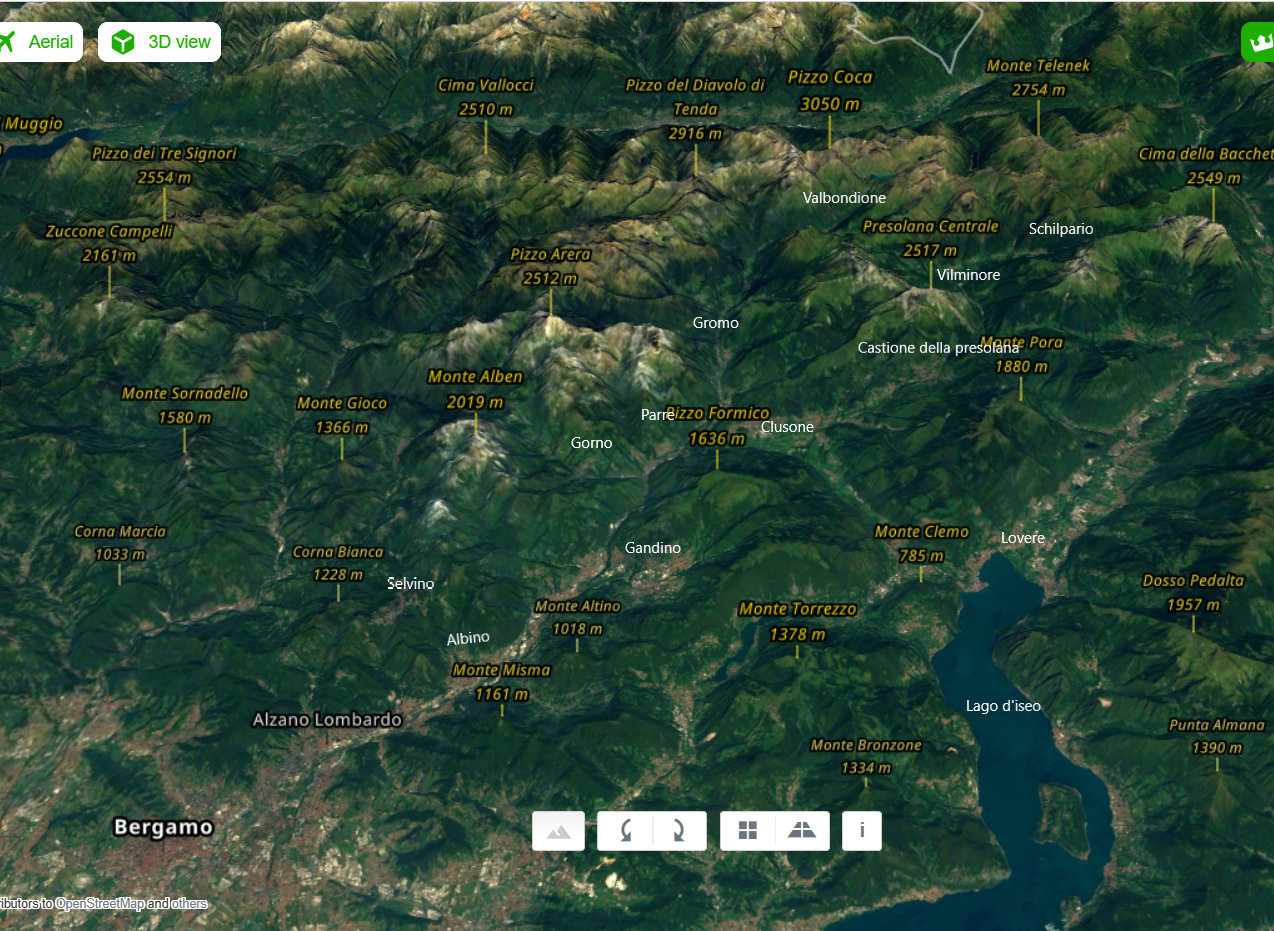
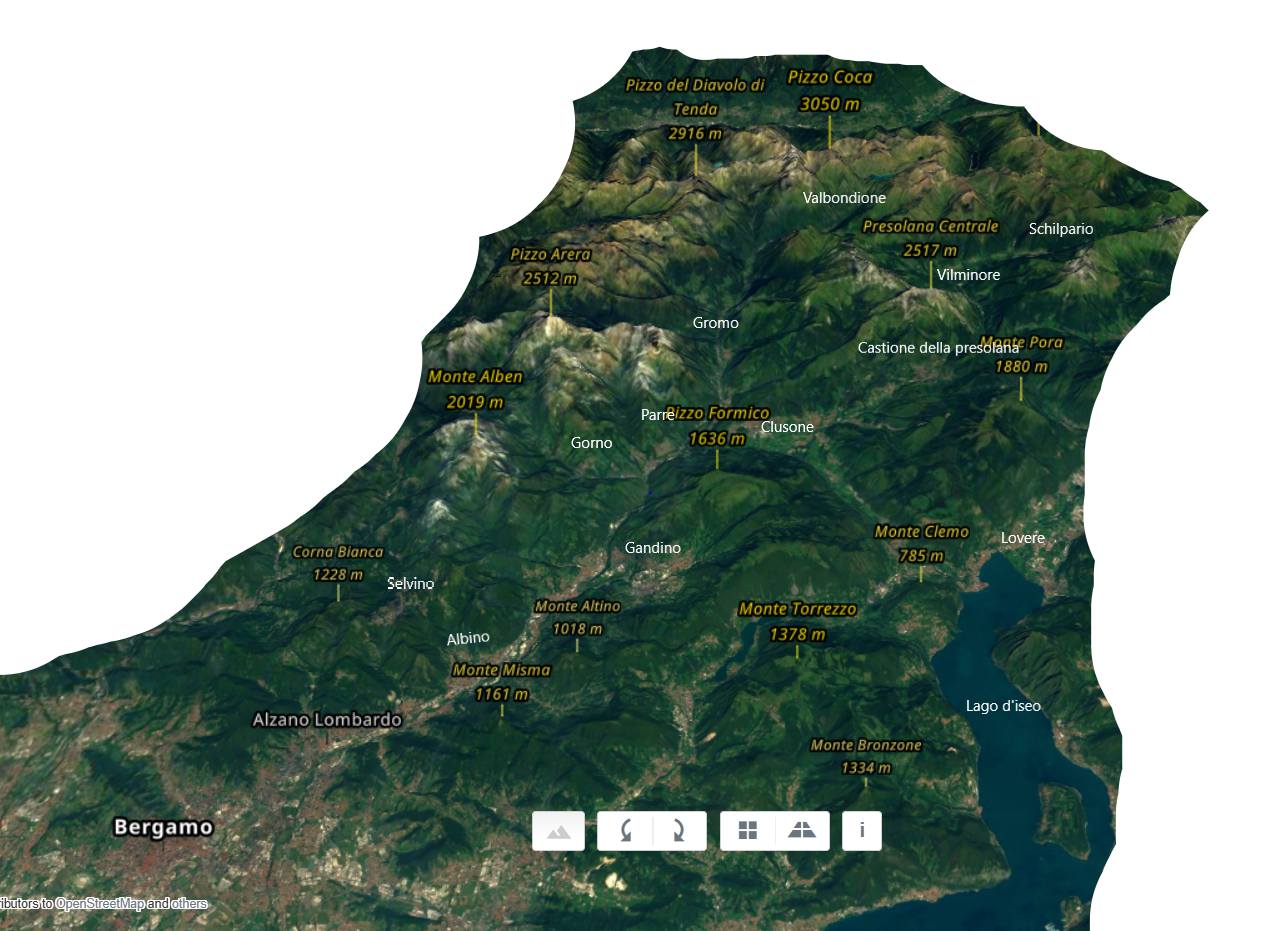
4

diff --git a/index.html b/index.html
@@ -409,9 +409,9 @@ footer{background:var(--cream);border-top:1px solid var(--tan);padding:1.5rem 3r
     </div>
   </div>
   <div class="cards">
-    <a class="card r" href="escursioni.html#in-vetta"><div class="card-img"><svg width="48" height="48" viewBox="0 0 48 48" fill="none"><path d="M8 38 L18 22 L28 30 L36 14 L44 20" stroke="#C2B49A" stroke-width="1.2" fill="none"/><circle cx="36" cy="12" r="3" stroke="#C2B49A" stroke-width="1" fill="none"/></svg></div><div class="card-body"><p class="card-label">In Vetta</p><p class="card-sub">Cime, creste, dislivello</p></div></a>
-    <a class="card r" href="escursioni.html#naturalistiche" style="transition-delay:.08s"><div class="card-img"><svg width="48" height="48" viewBox="0 0 48 48" fill="none"><path d="M24 8 Q28 16 24 24 Q20 16 24 8Z" fill="#C2B49A" opacity=".5"/><path d="M14 14 Q20 18 24 24 Q18 20 14 14Z" fill="#C2B49A" opacity=".4"/><path d="M34 14 Q28 18 24 24 Q30 20 34 14Z" fill="#C2B49A" opacity=".4"/><circle cx="24" cy="26" r="3" fill="#9C6040" opacity=".5"/></svg></div><div class="card-body"><p class="card-label">Naturalistiche</p><p class="card-sub">Botanica, geologia, fauna, fossili</p></div></a>
-    <a class="card r" href="escursioni.html#micologiche" style="transition-delay:.16s"><div class="card-img"><svg width="48" height="48" viewBox="0 0 48 48" fill="none"><path d="M10 22 Q10 10 24 10 Q38 10 38 22 Q38 24.5 35.5 24.5 L12.5 24.5 Q10 24.5 10 22Z" stroke="#C2B49A" stroke-width="1.2" fill="none"/><path d="M20 24.5 L20.5 36 Q20.5 39 24 39 Q27.5 39 27.5 36 L28 24.5" stroke="#C2B49A" stroke-width="1.2" fill="none"/><circle cx="18" cy="17" r="1.1" fill="#C2B49A" opacity=".6"/><circle cx="27" cy="15" r=".9" fill="#C2B49A" opacity=".5"/><circle cx="31" cy="19" r="1.1" fill="#C2B49A" opacity=".6"/></svg></div><div class="card-body"><p class="card-label">Micologiche</p><p class="card-sub">Funghi, bosco, stagionalità</p></div></a>
+    <a class="card r" href="escursioni.html#in-vetta"><div class="card-img"><img src="images/vette.jpg" alt="vette"></div><div class="card-body"><p class="card-label">In Vetta</p><p class="card-sub">Cime, creste, dislivello</p></div></a>
+    <a class="card r" href="escursioni.html#naturalistiche" style="transition-delay:.08s"><div class="card-img"><img src="images/botanica.jpg" alt="Primula albenensis"></div><div class="card-body"><p class="card-label">Naturalistiche</p><p class="card-sub">Botanica, geologia, fauna, fossili</p></div></a>
+    <a class="card r" href="escursioni.html#micologiche" style="transition-delay:.16s"><div class="card-img"><img src="images/boletus aestivalis.jpg" alt="Funghi"></div><div class="card-body"><p class="card-label">Micologiche</p><p class="card-sub">Funghi, bosco, stagionalità</p></div></a>
     <a class="card r" href="escursioni.html#e-bike" style="transition-delay:.24s"><div class="card-img"><svg width="48" height="48" viewBox="0 0 48 48" fill="none"><circle cx="14" cy="34" r="7" stroke="#C2B49A" stroke-width="1.2" fill="none"/><circle cx="34" cy="34" r="7" stroke="#C2B49A" stroke-width="1.2" fill="none"/><path d="M14 34 L22 18 L30 18 M22 18 L28 34 M14 34 L28 34 M28 34 L34 34" stroke="#C2B49A" stroke-width="1.2" fill="none" stroke-linejoin="round"/><path d="M18 13 L26 13" stroke="#C2B49A" stroke-width="1" opacity=".7"/><path d="M24.5 22 L21.5 27 L24.5 27 L22 32" stroke="#9C6040" stroke-width="1.2" fill="none" stroke-linecap="round" stroke-linejoin="round"/></svg></div><div class="card-body"><p class="card-label">E-Bike</p><p class="card-sub">Percorsi assistiti, per tutti</p></div></a>
   </div>
 </div>